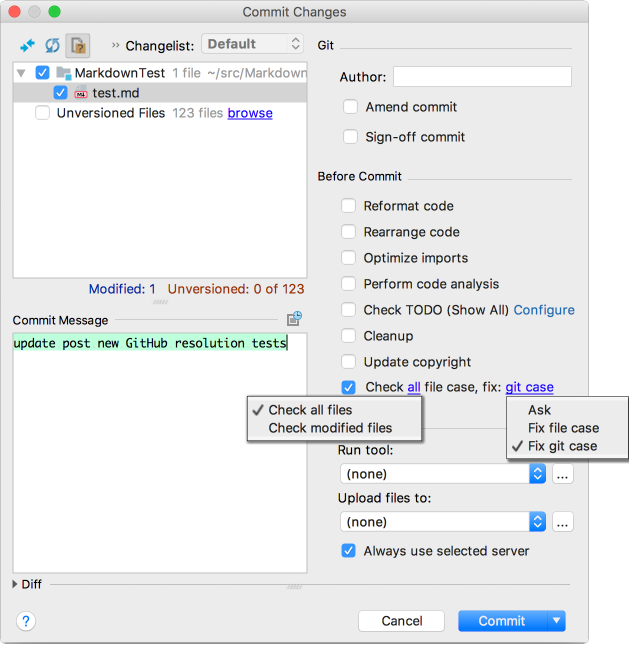
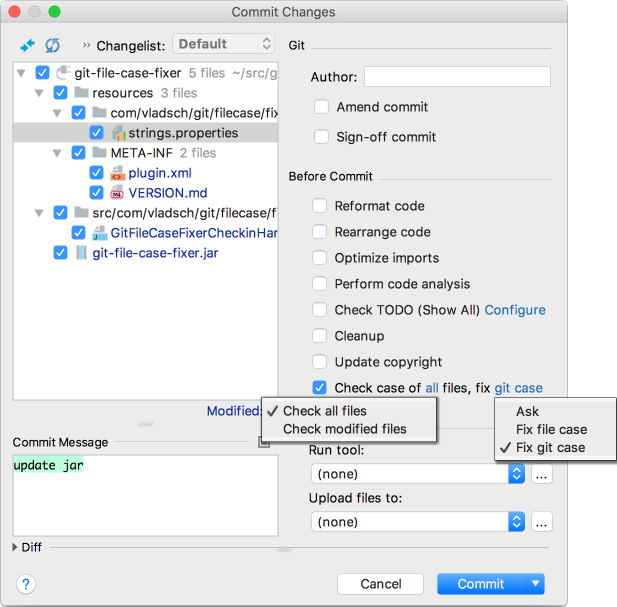
improve check-in handler text and links

Changed region(s): [[0.0, 0.0, 1.0, 1.0], [0.0616, 0.0, 0.0924, 0.0297]]

diff --git a/src/com/vladsch/git/filecase/fixer/GitFileCaseFixerCheckinHandler.java b/src/com/vladsch/git/filecase/fixer/GitFileCaseFixerCheckinHandler.java
@@ -41,19 +41,24 @@ import com.intellij.openapi.vcs.checkin.CheckinHandler;
 import com.intellij.openapi.vcs.ui.RefreshableOnComponent;
 import com.intellij.openapi.wm.WindowManager;
 import com.intellij.ui.HyperlinkLabel;
+import com.intellij.ui.JBColor;
+import com.intellij.ui.components.labels.LinkLabel;
+import com.intellij.uiDesigner.core.GridConstraints;
+import com.intellij.uiDesigner.core.GridLayoutManager;
+import com.intellij.uiDesigner.core.Spacer;
 import com.intellij.util.PairConsumer;
+import com.intellij.util.ui.JBUI;
 import com.vladsch.git.filecase.fixer.GitFileFixerProjectRoots.GitRepoFile;
 import org.jetbrains.annotations.NotNull;
 import org.jetbrains.annotations.Nullable;
 
+import javax.rmi.CORBA.Util;
 import javax.swing.JCheckBox;
 import javax.swing.JComponent;
+import javax.swing.JLabel;
 import javax.swing.JPanel;
 import javax.swing.event.HyperlinkEvent;
-import java.awt.BorderLayout;
-import java.awt.Component;
-import java.awt.MouseInfo;
-import java.awt.Point;
+import java.awt.*;
 import java.util.ArrayList;
 import java.util.Collection;
 
@@ -85,102 +90,110 @@ public class GitFileCaseFixerCheckinHandler extends CheckinHandler {
         return new RefreshableOnComponent() {
             @Override
             public JComponent getComponent() {
-                JPanel panel = new JPanel(new BorderLayout(4, 0));
-                panel.add(checkBox, BorderLayout.WEST);
+                JPanel panel = new JPanel(new BorderLayout(0, 0));
+                JPanel contentPanel = new JPanel(new GridLayoutManager(1, 6, JBUI.emptyInsets(), 4, -1));
+                panel.add(contentPanel, BorderLayout.WEST);
 
-                HyperlinkLabel linkLabel = new HyperlinkLabel("dummy", null);
-                linkLabel.setAlignmentX(Component.LEFT_ALIGNMENT);
-                panel.add(linkLabel, BorderLayout.CENTER);
+                JLabel prefix = new JLabel(Bundle.message("before.checkin.git.filecase.fixer.check.prefix"));
+                LinkLabel fileTypeLink = new LinkLabel("", null);
+                JLabel middle = new JLabel(Bundle.message("before.checkin.git.filecase.fixer.check.middle"));
+                LinkLabel fixLink = new LinkLabel("", null);
+
+                contentPanel.add(checkBox, new GridConstraints(0, 0, 1, 1, GridConstraints.ANCHOR_WEST, GridConstraints.FILL_NONE, 0, 0, null, null, null));
+                contentPanel.add(prefix, new GridConstraints(0, 1, 1, 1, GridConstraints.ANCHOR_WEST, GridConstraints.FILL_NONE, 0, 0, null, null, null));
+                contentPanel.add(fileTypeLink, new GridConstraints(0, 2, 1, 1, GridConstraints.ANCHOR_WEST, GridConstraints.FILL_NONE, 0, 0, null, null, null));
+                contentPanel.add(middle, new GridConstraints(0, 3, 1, 1, GridConstraints.ANCHOR_WEST, GridConstraints.FILL_NONE, 0, 0, null, null, null));
+                contentPanel.add(fixLink, new GridConstraints(0, 4, 1, 1, GridConstraints.ANCHOR_WEST, GridConstraints.FILL_NONE, 0, 0, null, null, null));
+                contentPanel.add(new Spacer(), new GridConstraints(0, 5, 1, 1, GridConstraints.ANCHOR_EAST, GridConstraints.FILL_HORIZONTAL, 0, 0, null, null, null));
+
+                //HyperlinkLabel linkLabel = new HyperlinkLabel("dummy", null);
+                //linkLabel.setAlignmentX(Component.LEFT_ALIGNMENT);
+                //panel.add(linkLabel, BorderLayout.CENTER);
 
                 Runnable updateCheckBoxText = () -> {
                     String fileType = myConfiguration.CHECK_UNMODIFIED_FILES ? Bundle.message("git.filecase.check.type.unmodified") : Bundle.message("git.filecase.check.type.modified");
 
+                    fileTypeLink.setText(fileType);
+
                     final String result;
                     if (myConfiguration.FIXER_ACTION == GitFixerConfiguration.FIX_GIT) {
-                        result = Bundle.message("before.checkin.git.filecase.fixer.check", fileType, Bundle.message("git.filecase.fixer.name.git"));
+                        result = Bundle.message("git.filecase.fixer.name.git");
                     } else if (myConfiguration.FIXER_ACTION == GitFixerConfiguration.FIX_FILE_SYSTEM) {
-                        result = Bundle.message("before.checkin.git.filecase.fixer.check", fileType, Bundle.message("git.filecase.fixer.name.file-system"));
+                        result = Bundle.message("git.filecase.fixer.name.file-system");
                     } else {
-                        result = Bundle.message("before.checkin.git.filecase.fixer.check", fileType, Bundle.message("git.filecase.fixer.name.match.prompt"));
+                        result = Bundle.message("git.filecase.fixer.name.match.prompt");
                     }
 
-                    linkLabel.setHtmlText(result);
+                    fixLink.setText(result);
                 };
 
                 updateCheckBoxText.run();
 
-                linkLabel.addHyperlinkListener( e -> {
-                    if (e.getEventType() == HyperlinkEvent.EventType.ACTIVATED) {
-                        String aUrl = (String) e.getDescription();
-                        Point mouseScreenPos = MouseInfo.getPointerInfo().getLocation();
-                        Point editorScreenPos = linkLabel.getLocationOnScreen();
-                        Point mouseLinkPos = new Point(mouseScreenPos.x - editorScreenPos.x, mouseScreenPos.y - editorScreenPos.y);
+                fileTypeLink.setListener((aSource, aLinkData) -> {
+                    JBPopupMenu myPopupMenuActions = new JBPopupMenu();
+                    final JBCheckboxMenuItem checkUnmodifiedFiles = new JBCheckboxMenuItem(Bundle.message("git.filecase.check.unmodified"));
+                    final JBCheckboxMenuItem checkModifiedFiles = new JBCheckboxMenuItem(Bundle.message("git.filecase.check.modified"));
 
-                        if (mouseLinkPos.x < linkLabel.getWidth()/2) {
-                            JBPopupMenu myPopupMenuActions = new JBPopupMenu("Actions");
-                            final JBCheckboxMenuItem checkUnmodifiedFiles = new JBCheckboxMenuItem(Bundle.message("git.filecase.check.unmodified"));
-                            final JBCheckboxMenuItem checkModifiedFiles = new JBCheckboxMenuItem(Bundle.message("git.filecase.check.modified"));
+                    myPopupMenuActions.add(checkUnmodifiedFiles);
+                    myPopupMenuActions.add(checkModifiedFiles);
 
-                            myPopupMenuActions.add(checkUnmodifiedFiles);
-                            myPopupMenuActions.add(checkModifiedFiles);
+                    Runnable updateCheckedState = () -> {
+                        updateCheckBoxText.run();
+                        checkUnmodifiedFiles.setSelected(myConfiguration.CHECK_UNMODIFIED_FILES);
+                        checkModifiedFiles.setSelected(!myConfiguration.CHECK_UNMODIFIED_FILES);
+                    };
 
-                            Runnable updateCheckedState = () -> {
-                                updateCheckBoxText.run();
-                                checkUnmodifiedFiles.setSelected(myConfiguration.CHECK_UNMODIFIED_FILES);
-                                checkModifiedFiles.setSelected(!myConfiguration.CHECK_UNMODIFIED_FILES);
-                            };
+                    updateCheckedState.run();
 
-                            updateCheckedState.run();
+                    checkUnmodifiedFiles.addActionListener(e1 -> {
+                        myConfiguration.CHECK_UNMODIFIED_FILES = true;
+                        updateCheckedState.run();
+                    });
 
-                            checkUnmodifiedFiles.addActionListener(e1 -> {
-                                myConfiguration.CHECK_UNMODIFIED_FILES = true;
-                                updateCheckedState.run();
-                            });
+                    checkModifiedFiles.addActionListener(e1 -> {
+                        myConfiguration.CHECK_UNMODIFIED_FILES = false;
+                        updateCheckedState.run();
+                    });
 
-                            checkModifiedFiles.addActionListener(e1 -> {
-                                myConfiguration.CHECK_UNMODIFIED_FILES = false;
-                                updateCheckedState.run();
-                            });
+                    myPopupMenuActions.show(fileTypeLink, 10, fileTypeLink.getWidth());
+                }, null);
 
-                            myPopupMenuActions.show(linkLabel, mouseLinkPos.x, mouseLinkPos.y);
-                        } else {
-                            JBPopupMenu myPopupMenuActions = new JBPopupMenu("Actions");
-                            final JBCheckboxMenuItem prompt = new JBCheckboxMenuItem(Bundle.message("git.filecase.fixer.name.menu.prompt"));
-                            final JBCheckboxMenuItem fixFileCase = new JBCheckboxMenuItem(Bundle.message("git.filecase.fixer.name.menu.file-system"));
-                            final JBCheckboxMenuItem fixGit = new JBCheckboxMenuItem(Bundle.message("git.filecase.fixer.name.menu.git"));
+                fixLink.setListener((aSource, aLinkData) -> {
+                    JBPopupMenu myPopupMenuActions = new JBPopupMenu();
+                    final JBCheckboxMenuItem prompt = new JBCheckboxMenuItem(Bundle.message("git.filecase.fixer.name.menu.prompt"));
+                    final JBCheckboxMenuItem fixFileCase = new JBCheckboxMenuItem(Bundle.message("git.filecase.fixer.name.menu.file-system"));
+                    final JBCheckboxMenuItem fixGit = new JBCheckboxMenuItem(Bundle.message("git.filecase.fixer.name.menu.git"));
 
-                            myPopupMenuActions.add(prompt);
-                            myPopupMenuActions.add(fixFileCase);
-                            myPopupMenuActions.add(fixGit);
+                    myPopupMenuActions.add(prompt);
+                    myPopupMenuActions.add(fixFileCase);
+                    myPopupMenuActions.add(fixGit);
 
-                            Runnable updateCheckedState = () -> {
-                                updateCheckBoxText.run();
-                                prompt.setSelected(myConfiguration.FIXER_ACTION == FIX_PROMPT);
-                                fixFileCase.setSelected(myConfiguration.FIXER_ACTION == GitFixerConfiguration.FIX_FILE_SYSTEM);
-                                fixGit.setSelected(myConfiguration.FIXER_ACTION == GitFixerConfiguration.FIX_GIT);
-                            };
+                    Runnable updateCheckedState = () -> {
+                        updateCheckBoxText.run();
+                        prompt.setSelected(myConfiguration.FIXER_ACTION == FIX_PROMPT);
+                        fixFileCase.setSelected(myConfiguration.FIXER_ACTION == GitFixerConfiguration.FIX_FILE_SYSTEM);
+                        fixGit.setSelected(myConfiguration.FIXER_ACTION == GitFixerConfiguration.FIX_GIT);
+                    };
 
-                            updateCheckedState.run();
+                    updateCheckedState.run();
 
-                            prompt.addActionListener(e1 -> {
-                                myConfiguration.FIXER_ACTION = FIX_PROMPT;
-                                updateCheckedState.run();
-                            });
+                    prompt.addActionListener(e1 -> {
+                        myConfiguration.FIXER_ACTION = FIX_PROMPT;
+                        updateCheckedState.run();
+                    });
 
-                            fixFileCase.addActionListener(e1 -> {
-                                myConfiguration.FIXER_ACTION = GitFixerConfiguration.FIX_FILE_SYSTEM;
-                                updateCheckedState.run();
-                            });
+                    fixFileCase.addActionListener(e1 -> {
+                        myConfiguration.FIXER_ACTION = GitFixerConfiguration.FIX_FILE_SYSTEM;
+                        updateCheckedState.run();
+                    });
 
-                            fixGit.addActionListener(e1 -> {
-                                myConfiguration.FIXER_ACTION = GitFixerConfiguration.FIX_GIT;
-                                updateCheckedState.run();
-                            });
+                    fixGit.addActionListener(e1 -> {
+                        myConfiguration.FIXER_ACTION = GitFixerConfiguration.FIX_GIT;
+                        updateCheckedState.run();
+                    });
 
-                            myPopupMenuActions.show(linkLabel, mouseLinkPos.x, mouseLinkPos.y);
-                        }
-                    }
-                });
+                    myPopupMenuActions.show(fixLink, 10, fixLink.getWidth());
+                }, null);
 
                 return panel;
             }

diff --git a/resources/META-INF/VERSION.md b/resources/META-INF/VERSION.md
@@ -2,14 +2,22 @@
 
 [TOC]: # " "
 
+- [Next: 1.0.6](#next-106)
 - [1.0.4](#104)
 - [1.0.2](#102)
 - [1.0.0](#100)
 - [0.0.0](#000)
 
+## Next: 1.0.6
+
+* [ ] Fix: handle parent directories' case mismatch in apply fixes. Right now fix git will work,
+      but fix file system will only work for case mismatch in the file name.
+* Fix: improve text and link layout of check-in handler.
+* Fix: use LinkLabel for check-in handler options
+
 ## 1.0.4
 
-* Fix: compatibility with 2016.3.8, some API uses were from later versions 
+* Fix: compatibility with 2016.3.8, some API uses were from later versions
 * Fix: no mismatches balloon popup would show in first project instead of the current one.
 
 ## 1.0.2
